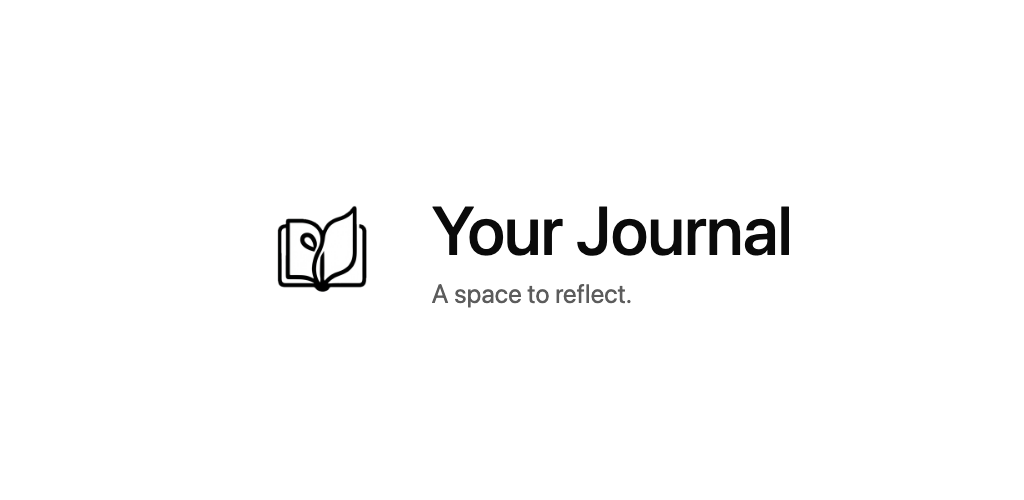
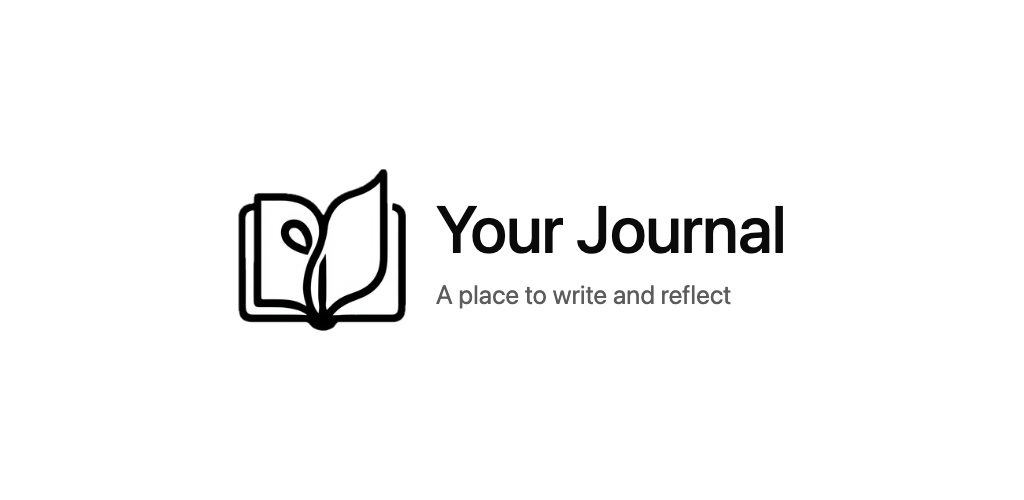
Finalize feature graphic sizing, log tablet-screenshot decision
feature-graphic-1024x500.png: fixed the icon appearing tiny (the
source PNG has large transparent padding from Android's adaptive-icon
safe-zone spec) by cropping via background-size/position instead of
scaling the padded canvas. Logo sized to the two-line text block
height per user request, then reduced ~30%. Copy: "Your Journal / A
place to write and reflect" (no trailing period).

todo.md: logs the crop-math debugging (caught a coordinate mismatch
between two different source files by rendering the crop box as a
visible overlay before trusting it), and records the decision not to
fabricate 10" tablet screenshots — recommends declaring Phone-only in
Console instead, since the app has no tablet-specific layout or
manifest declarations either way.

Changed region(s): [[0.2188, 0.33, 0.7812, 0.66]]

diff --git a/todo.md b/todo.md
@@ -740,6 +740,29 @@ Progress since app creation:
   screenshots** (16:9 or 9:16, 320–3840px per side) — these must be real captures of the
   running app (Entry/Timeline/Calendar recommended), not generated. Blocked on the user
   having the app open on a phone or emulator to capture from.
+- **Feature graphic revised twice more (2026-09-12), final version done:**
+  - Icon was invisible-at-a-glance because `launcher-fg.png` (432×432) has huge transparent
+    padding baked in (Android's adaptive-icon "safe zone" spec) — the actual ink is only
+    ~213×205px of it. A plain `<img>` scales the whole padded canvas, so bigger box ≠ bigger
+    visible logo. Fixed by cropping via `background-size`/`background-position` math so the
+    box size actually controls the visible mark size. (First crop attempt used bbox
+    coordinates measured against the wrong source file — `assets/icon.png` at 1024×1024
+    instead of `launcher-fg.png` at 432×432 — caught by rendering the crop box as a visible
+    overlay before trusting the numbers.)
+  - Per user request: logo sized to roughly match the two-line text block height, then
+    reduced ~30% from that. Copy is "Your Journal" / "A place to write and reflect" (no
+    trailing period, per user).
+  - Current final file already saved to `store-assets/feature-graphic-1024x500.png` —
+    **uncommitted as of end of session, commit next time.**
+- **Tablet (10") screenshots — decided NOT to fabricate them.** User asked for a generated
+  10" screenshot; declined — a mocked-up image wouldn't be a real capture of the app running
+  at that size, and the app's layout has never actually been tested at tablet width (no
+  `supports-screens`/orientation declarations in the manifest either way). **Recommended
+  path: declare Phone only** in Console's device/form-factor selection for screenshots, which
+  removes the tablet requirement entirely — the app has no tablet-specific layout anyway. If
+  Console ever truly requires a real tablet screenshot, the right way is a 10" AVD in Android
+  Studio (SDK already installed), not a generated mockup. **Not yet confirmed resolved in
+  Console** — check next session whether the tablet section was skipped or still blocking.
 
 Still open / not blocking Phase 7:
 1. **Button consolidation pass** — scoped by the button audit above / the plan file
